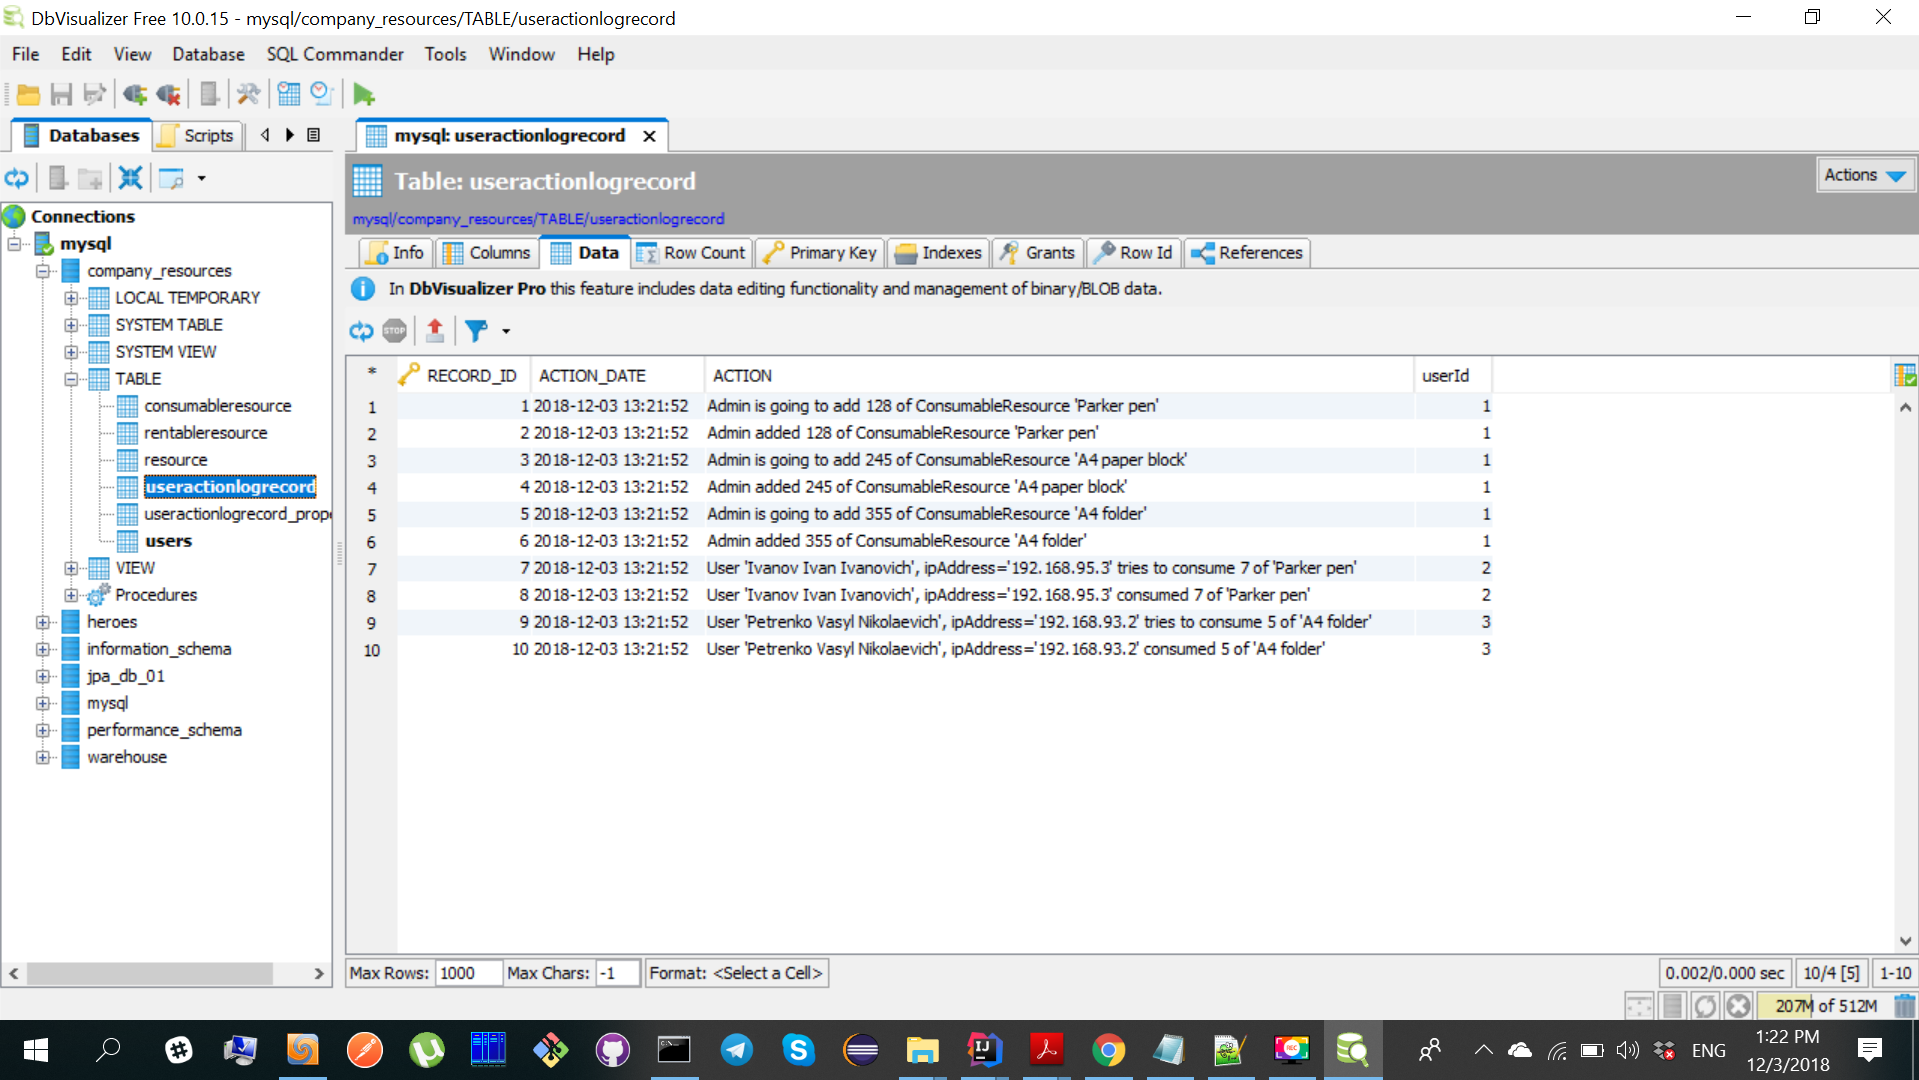
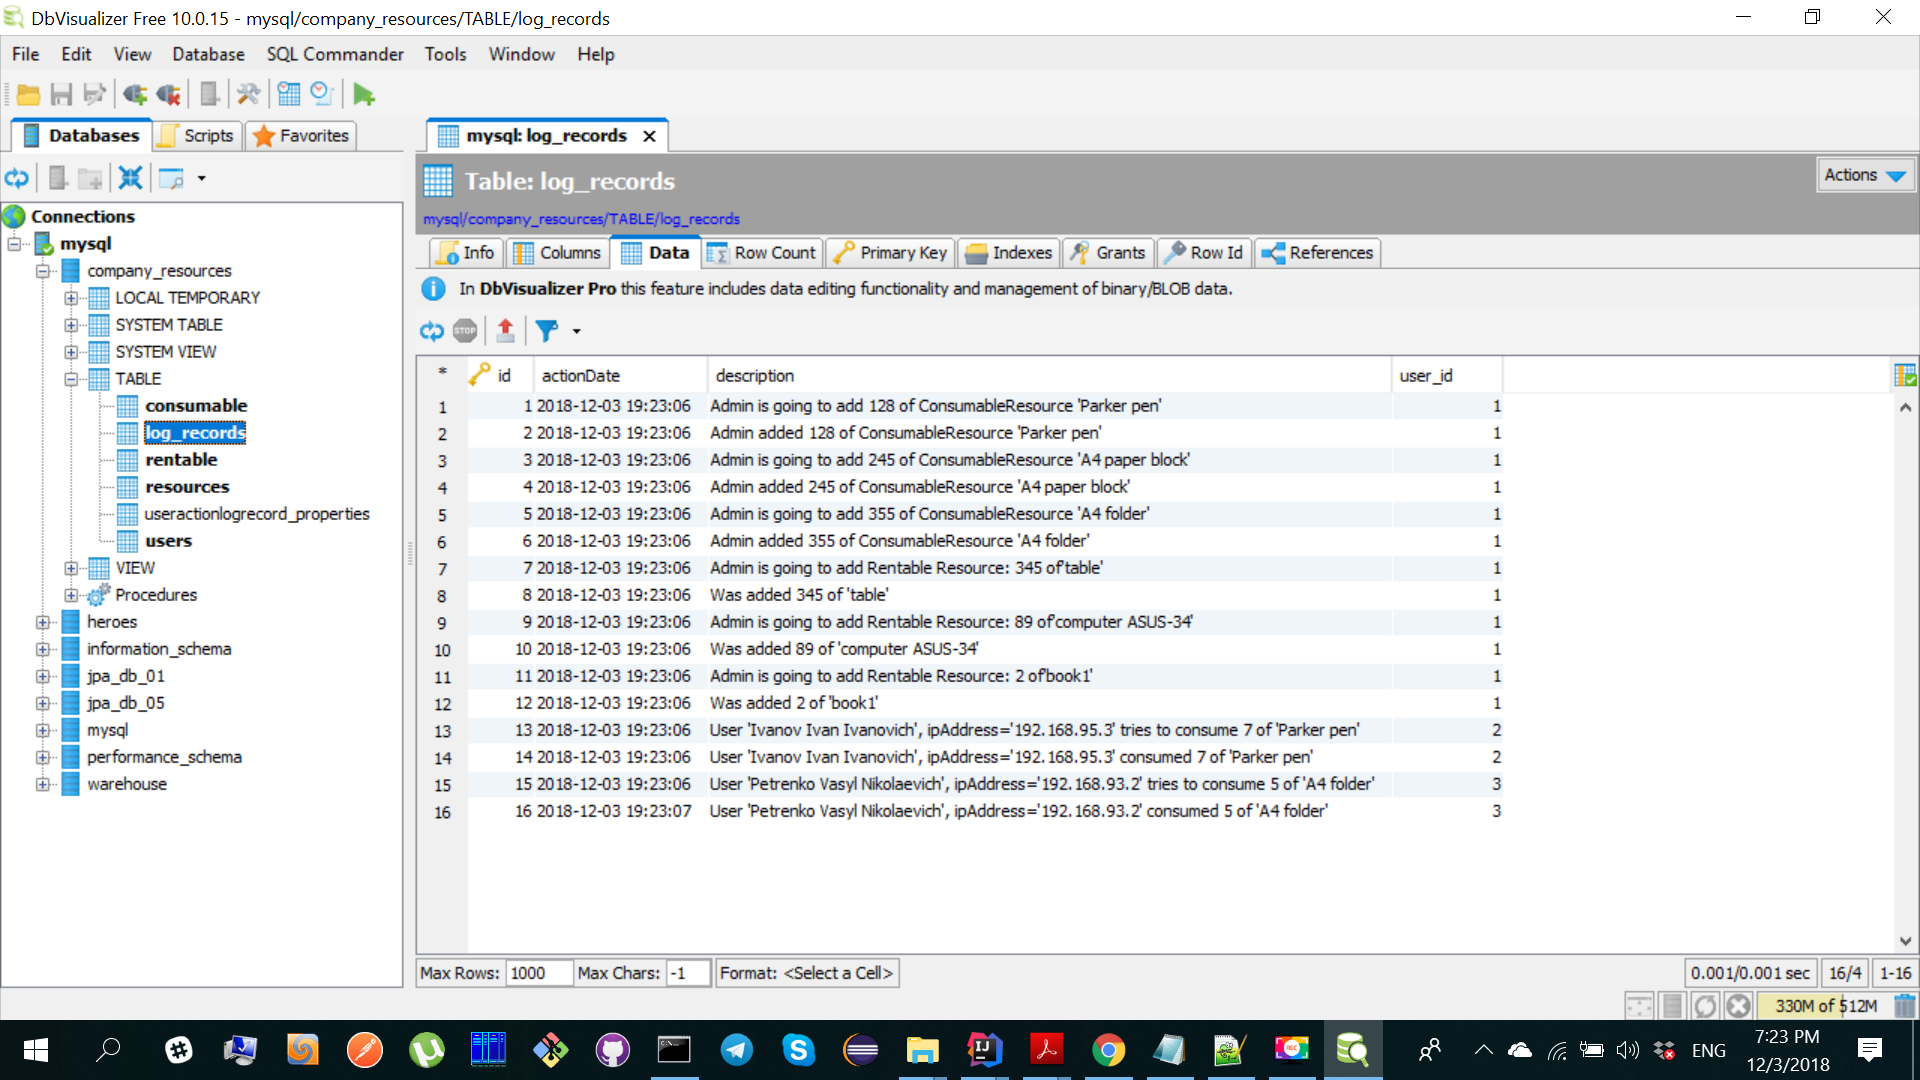
refactor

diff --git a/src/main/java/com/gmail/kramarenko104/Launcher.java b/src/main/java/com/gmail/kramarenko104/Launcher.java
@@ -4,6 +4,10 @@ import com.gmail.kramarenko104.service.*;
 import com.gmail.kramarenko104.entity.*;
 import org.apache.log4j.PropertyConfigurator;
 
+import javax.persistence.EntityManager;
+import javax.persistence.EntityManagerFactory;
+import javax.persistence.Persistence;
+
 public class Launcher {
 
     static {
@@ -11,17 +15,33 @@ public class Launcher {
     }
 
     public static void main(String[] args) {
+        EntityManagerFactory emf = Persistence.createEntityManagerFactory("persistenceUnits.resourcesManagement");
+        final EntityManager em = emf.createEntityManager();
 
         // create new users
-        UserService userService = new UserService();
-        User admin = userService.getUser(1);
-        User user1 = userService.getUser(2);
-        User user2 = userService.getUser(3);
+        UserService userService = new UserService(em);
+        final User admin = new User();
+        admin.setId(1);
+        admin.setName("admin");
+        admin.setIpAddress("192.168.95.1");
+        userService.saveUser(admin);
 
-        UserActionsLogService log = new UserActionsLogService();
+        final User user1 = new User();
+        user1.setId(2);
+        user1.setName("Ivanov Ivan Ivanovich");
+        user1.setIpAddress("192.168.95.3");
+        userService.saveUser(user1);
+
+        final User user2 = new User();
+        user2.setId(3);
+        user2.setName("Petrenko Vasyl Nikolaevich");
+        user2.setIpAddress("192.168.93.2");
+        userService.saveUser(user2);
+
+        UserActionsLogService log = new UserActionsLogService(em);
 
         // init set of Consumable Resources ////////////////////////////////////////
-        ConsumableResourceService consServ = new ConsumableResourceService(log);
+        ConsumableResourceService consServ = new ConsumableResourceService(log, em);
 
         // all these actions should be added to log
         ConsumableResource consRes1 = new ConsumableResource();
@@ -37,7 +57,7 @@ public class Launcher {
         consServ.replenishResource(admin, consRes3, 355);
 
         // init set of Rentable Resources //////////////////////////////////
-        RentableResourceService rentServ = new RentableResourceService(log);
+        RentableResourceService rentServ = new RentableResourceService(log, em);
 
         // all these actions should be added to log
         RentableResource rentRes = new RentableResource();

diff --git a/src/main/java/com/gmail/kramarenko104/service/ConsumableResourceService.java b/src/main/java/com/gmail/kramarenko104/service/ConsumableResourceService.java
@@ -14,15 +14,13 @@ import java.util.List;
 
 public class ConsumableResourceService {
 
-    private static EntityManagerFactory emf = null;
-
-    static {
-        emf = Persistence.createEntityManagerFactory("persistenceUnits.resourcesManagement");
-    }
-
+    EntityManager em;
     UserActionsLogService log;
 
-    public ConsumableResourceService(UserActionsLogService log) {
+    public ConsumableResourceService(){}
+
+    public ConsumableResourceService(UserActionsLogService log, EntityManager em){
+        this.em = em;
         this.log = log;
     }
 
@@ -30,7 +28,6 @@ public class ConsumableResourceService {
         String description = "Admin is going to add " + amount + " of ConsumableResource " + resource.toString();
         log.recordUserAction(user, new Date(), description);
 
-        final EntityManager em = emf.createEntityManager();
         em.getTransaction().begin();
         resource.setLeftAmount(resource.getLeftAmount() + amount);
         em.merge(resource);
@@ -45,7 +42,6 @@ public class ConsumableResourceService {
         log.recordUserAction(user, new Date(), description);
 
         boolean success = false;
-        final EntityManager em = emf.createEntityManager();
 //        int idResource = resource.getId();
 //        ConsumableResource changedResource = getConsumableResource(idResource);
         em.getTransaction().begin();
@@ -63,7 +59,6 @@ public class ConsumableResourceService {
     }
 
     public ConsumableResource getConsumableResource(int id) {
-        final EntityManager em = emf.createEntityManager();
         ConsumableResource gotRes  = null;
         em.getTransaction().begin();
         try {
@@ -77,8 +72,6 @@ public class ConsumableResourceService {
 
     /////////////////////////////////////////////////////////////////
     public List<ConsumableResource> listResourcesForConsumption(){
-
-        final EntityManager em = emf.createEntityManager();
 
         CriteriaBuilder cb = em.getCriteriaBuilder();
         CriteriaQuery<ConsumableResource> cq = cb.createQuery(ConsumableResource.class);

diff --git a/src/main/java/com/gmail/kramarenko104/service/UserService.java b/src/main/java/com/gmail/kramarenko104/service/UserService.java
@@ -7,18 +7,13 @@ import javax.persistence.Persistence;
 
 public class UserService {
 
-    private static EntityManagerFactory emf = null;
+    EntityManager em;
 
-    static {
-        emf = Persistence.createEntityManagerFactory("persistenceUnits.resourcesManagement");
-    }
-
-    public UserService(){
-        init ();
+    public UserService(EntityManager em){
+        this.em = em;
     }
 
     public User getUser(int id) {
-        final EntityManager em = emf.createEntityManager();
         em.getTransaction().begin();
         try {
             return em.find(User.class, id);
@@ -28,31 +23,12 @@ public class UserService {
     }
 
     public void saveUser(User user) {
-        final EntityManager em = emf.createEntityManager();
         em.getTransaction().begin();
         em.merge(user);
+        em.flush();
         em.getTransaction().commit();
     }
 
-    private void init() {
 
-        final User admin = new User();
-        admin.setId(1);
-        admin.setName("admin");
-        admin.setIpAddress("192.168.95.1");
-        saveUser(admin);
-
-        final User user1 = new User();
-        user1.setId(2);
-        user1.setName("Ivanov Ivan Ivanovich");
-        user1.setIpAddress("192.168.95.3");
-        saveUser(user1);
-
-        final User user2 = new User();
-        user2.setId(3);
-        user2.setName("Petrenko Vasyl Nikolaevich");
-        user2.setIpAddress("192.168.93.2");
-        saveUser(user2);
-    }
 
 }

diff --git a/src/main/java/com/gmail/kramarenko104/service/UserActionsLogService.java b/src/main/java/com/gmail/kramarenko104/service/UserActionsLogService.java
@@ -4,8 +4,6 @@ import com.gmail.kramarenko104.entity.User;
 import com.gmail.kramarenko104.entity.UserActionLogRecord;
 import org.springframework.transaction.annotation.Propagation;
 import org.springframework.transaction.annotation.Transactional;
-
-import javax.persistence.CascadeType;
 import javax.persistence.EntityManager;
 import javax.persistence.EntityManagerFactory;
 import javax.persistence.Persistence;
@@ -13,23 +11,23 @@ import java.util.Date;
 
 public class UserActionsLogService {
 
-    private static EntityManagerFactory emf = null;
+    EntityManager em;
 
-    static {
-        emf = Persistence.createEntityManagerFactory("persistenceUnits.resourcesManagement");
+    public UserActionsLogService(EntityManager em){
+        this.em = em;
     }
 
-    @Transactional(propagation = Propagation.REQUIRES_NEW)
+    //@Transactional(propagation = Propagation.REQUIRES_NEW)
     public UserActionLogRecord recordUserAction(User user, Date actionDate, String description){
 
-        final EntityManager em = emf.createEntityManager();
         em.getTransaction().begin();
 
         UserActionLogRecord record  = new UserActionLogRecord();
+        record.setUser(user);
         record.setActionDate(actionDate);
         record.setDescription(description);
         em.merge(record);
-
+        em.flush();
         em.getTransaction().commit();
         return record;
     }

diff --git a/src/main/java/com/gmail/kramarenko104/service/RentableResourceService.java b/src/main/java/com/gmail/kramarenko104/service/RentableResourceService.java
@@ -10,15 +10,11 @@ import java.util.Date;
 
 public class RentableResourceService {
 
-    private static EntityManagerFactory emf = null;
-
+    EntityManager em;
     UserActionsLogService log;
 
-    static {
-        emf = Persistence.createEntityManagerFactory("persistenceUnits.resourcesManagement");
-    }
-
-    public RentableResourceService(UserActionsLogService log) {
+    public RentableResourceService(UserActionsLogService log, EntityManager em){
+        this.em = em;
         this.log = log;
     }
 
@@ -26,7 +22,6 @@ public class RentableResourceService {
         String description = "Admin is going to add Rentable Resource: " + amount + " of" + resource.toString();
         log.recordUserAction(user, new Date(), description);
 
-        final EntityManager em = emf.createEntityManager();
         em.getTransaction().begin();
         resource.setLeftAmount(resource.getLeftAmount() + amount);
         resource.setTotalAmount(resource.getTotalAmount() + amount);
@@ -38,7 +33,6 @@ public class RentableResourceService {
     }
 
     public RentableResource getRentableResourceById(int id) {
-        EntityManager em = emf.createEntityManager();
         em.getTransaction().begin();
         try {
             String queryText = "select e from RentableResource e where e.id = :id";

diff --git a/src/main/java/com/gmail/kramarenko104/entity/UserActionLogRecord.java b/src/main/java/com/gmail/kramarenko104/entity/UserActionLogRecord.java
@@ -1,12 +1,13 @@
 package com.gmail.kramarenko104.entity;
 
 import javax.persistence.*;
+import java.io.Serializable;
 import java.util.Date;
 import java.util.Map;
 
 @Entity
 @Table (name = "log_records")
-public class UserActionLogRecord{
+public class UserActionLogRecord {
 
     @Id
     @GeneratedValue (strategy = GenerationType.AUTO)
@@ -19,7 +20,8 @@ public class UserActionLogRecord{
     @ElementCollection
     private Map<String, String> properties;
 
-    @ManyToOne(fetch = FetchType.LAZY)
+    @ManyToOne
+    @JoinColumn(name="user_id", insertable = true, updatable = true)
     private User user;
 
     public UserActionLogRecord(){}

diff --git a/src/main/java/com/gmail/kramarenko104/entity/User.java b/src/main/java/com/gmail/kramarenko104/entity/User.java
@@ -1,6 +1,7 @@
 package com.gmail.kramarenko104.entity;
 
 import javax.persistence.*;
+import java.io.Serializable;
 import java.util.List;
 
 @Entity
@@ -15,7 +16,7 @@ public class User {
 
     private String ipAddress;
 
-    @OneToMany (fetch = FetchType.LAZY, mappedBy = "user", cascade = CascadeType.ALL, orphanRemoval = true)
+    @OneToMany (mappedBy = "user")
     List<UserActionLogRecord> records;
 
     public User() {

diff --git a/src/main/java/com/gmail/kramarenko104/entity/RentableResource.java b/src/main/java/com/gmail/kramarenko104/entity/RentableResource.java
@@ -2,14 +2,16 @@ package com.gmail.kramarenko104.entity;
 
 import javax.persistence.Entity;
 import javax.persistence.Table;
+import java.io.Serializable;
 
 @Entity
 @Table(name = "rentable")
-public class RentableResource extends Resource{
+public class RentableResource extends Resource {
 
     private int totalAmount;
 
     public RentableResource(){
+        super();
     }
 
     public void setTotalAmount(int amount) {

diff --git a/src/main/java/com/gmail/kramarenko104/entity/ConsumableResource.java b/src/main/java/com/gmail/kramarenko104/entity/ConsumableResource.java
@@ -1,15 +1,17 @@
 package com.gmail.kramarenko104.entity;
 
 import javax.persistence.*;
+import java.io.Serializable;
 
 @Entity
 @Table (name = "consumable")
 
-public class ConsumableResource extends Resource{
+public class ConsumableResource extends Resource {
 
     private int consumedAmount;
 
     public ConsumableResource(){
+        super();
     }
 
     public int getConsumed() {

diff --git a/src/main/java/com/gmail/kramarenko104/entity/Resource.java b/src/main/java/com/gmail/kramarenko104/entity/Resource.java
@@ -1,6 +1,7 @@
 package com.gmail.kramarenko104.entity;
 
 import javax.persistence.*;
+import java.io.Serializable;
 
 @Entity
 @Table (name = "resources")
